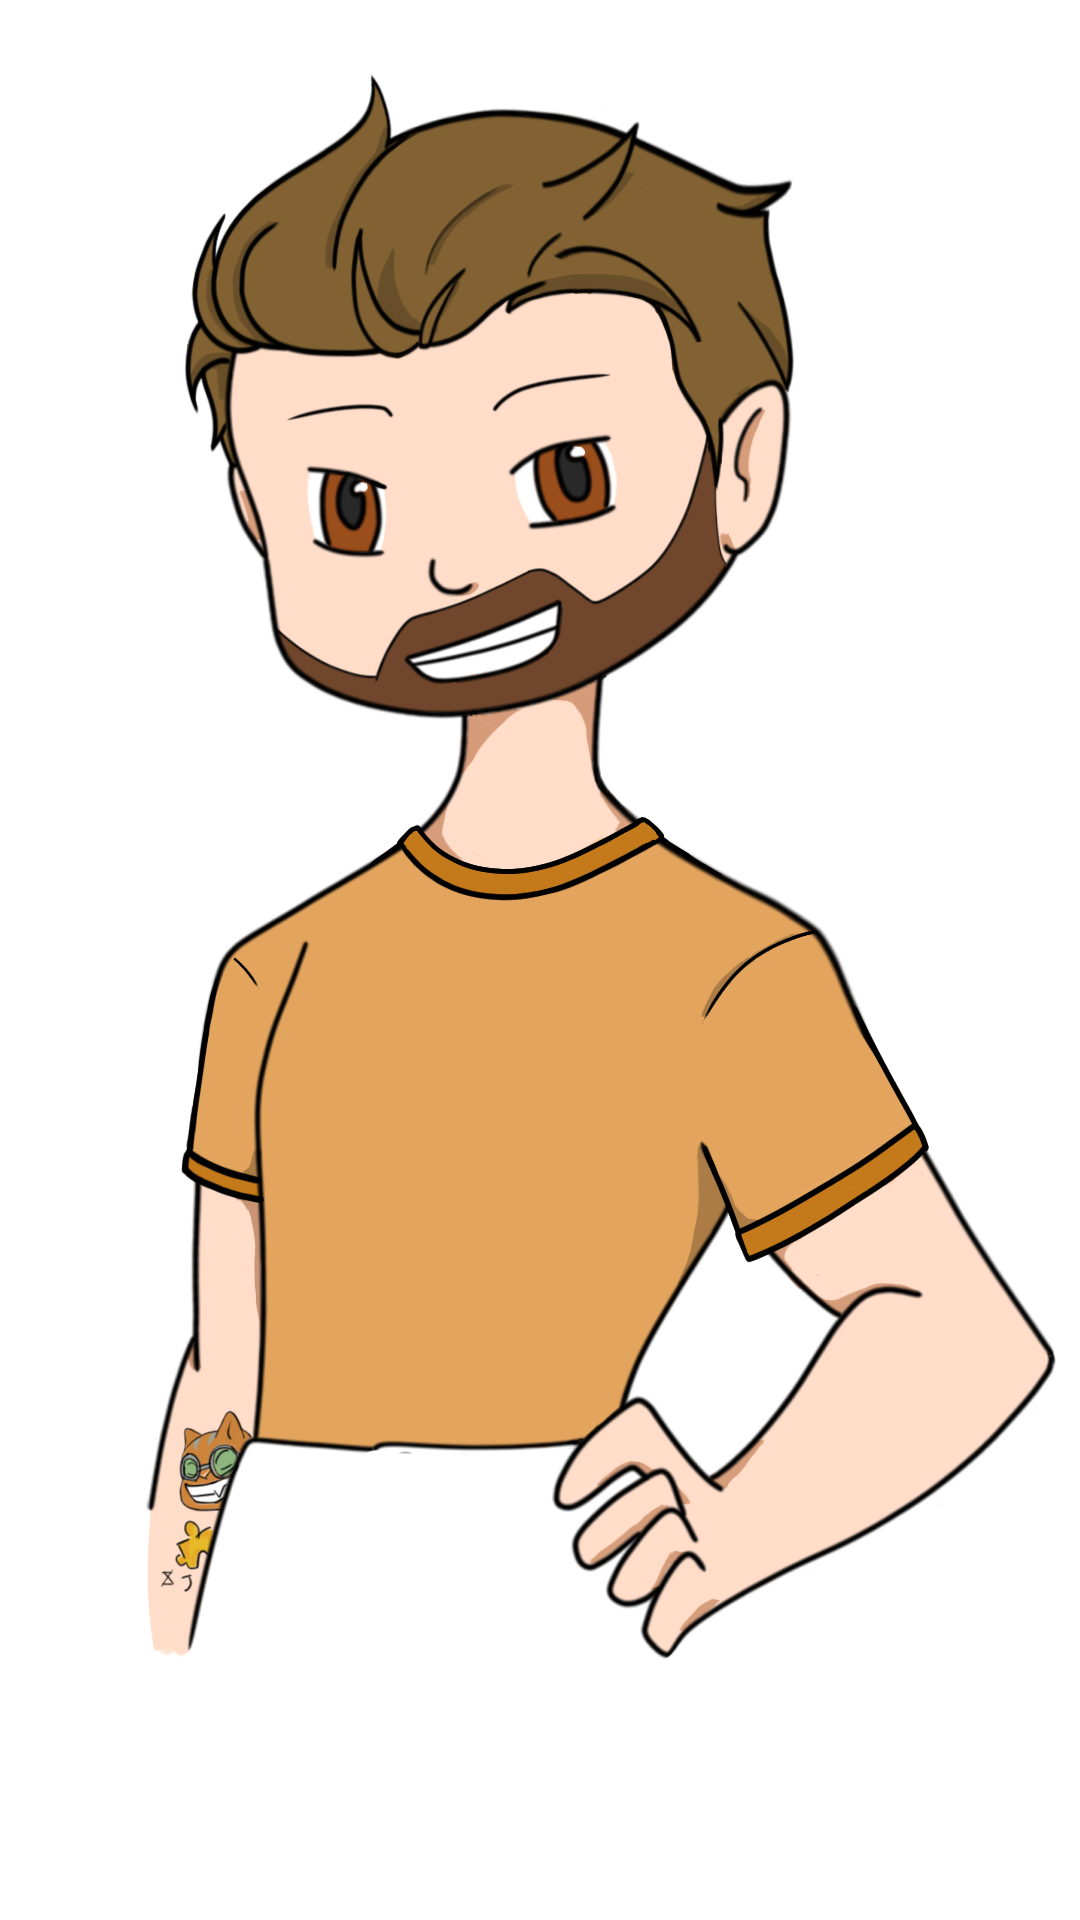
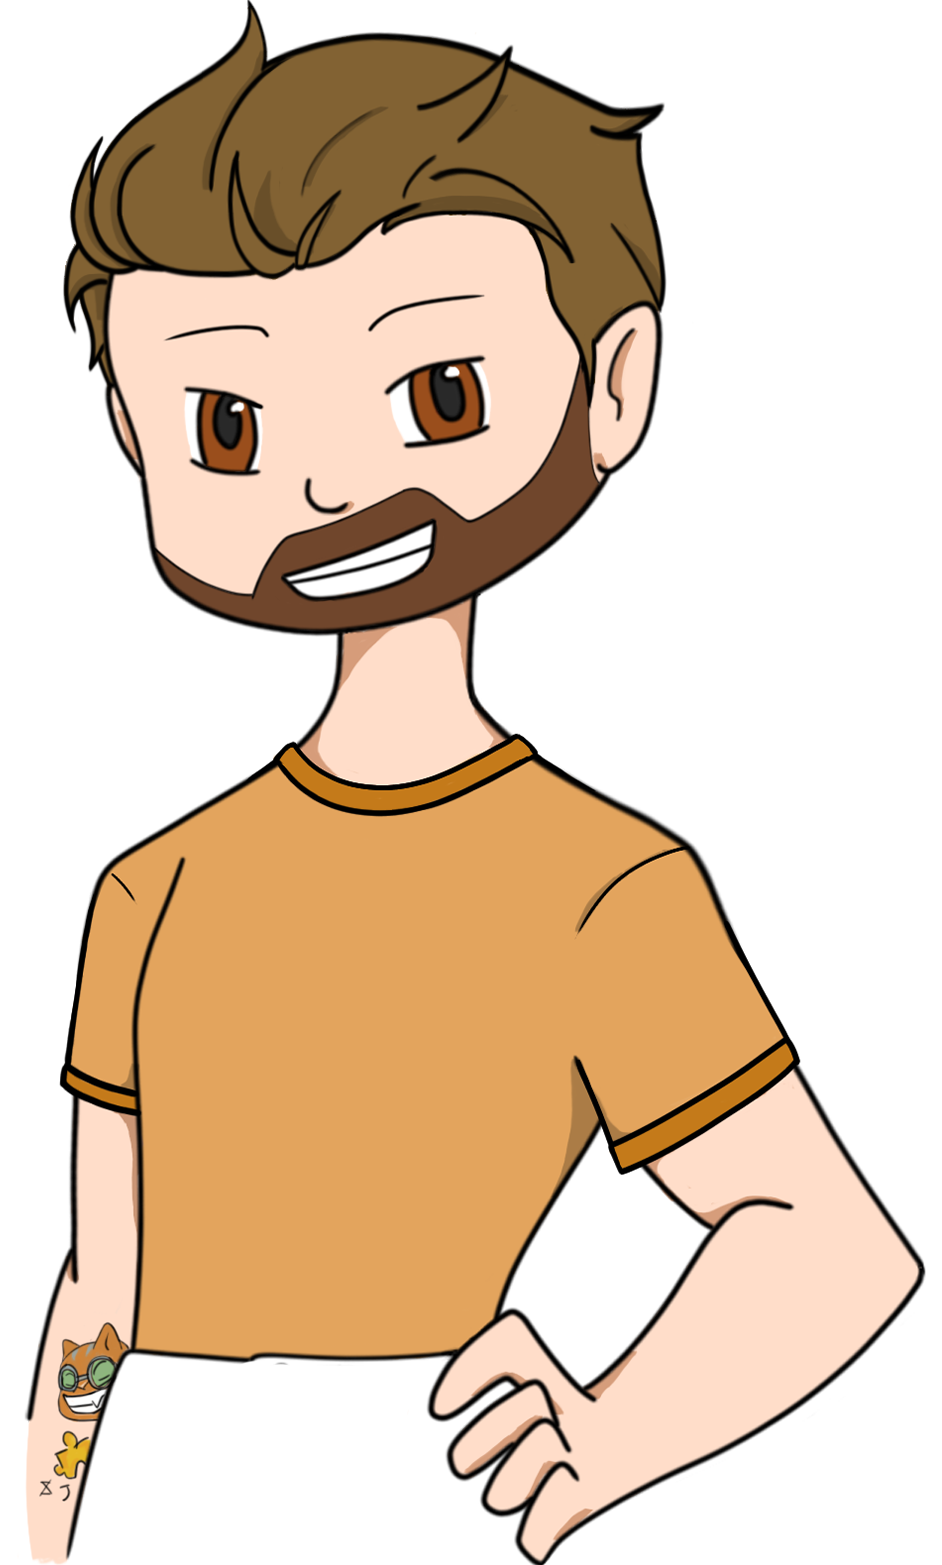
manon resize, pblm réglé

diff --git a/FLTV-WebSite/src/app/streamers/streamers.component.html b/FLTV-WebSite/src/app/streamers/streamers.component.html
@@ -16,8 +16,8 @@
                         <div *ngIf = "IndexOfelement == index">
                             <h2>{{streamer.name}}</h2>
                             <img id="imagestreamer" src="{{streamer.img}}" alt="image du streamer Lorenzo">
-                            <p>{{streamer.quote}}</p>
-                            <p>{{streamer.prez}}</p>
+                            <p class="quote">{{streamer.quote}}</p>
+                            <p class="prez">{{streamer.prez}}</p>
                         </div>
                     </div> 
                 <div class="fleche2"><img class="fleche fleched" src="../../assets/img/fleche.png" (click)="next()"></div>

diff --git a/FLTV-WebSite/src/app/streamers/streamers.component.css b/FLTV-WebSite/src/app/streamers/streamers.component.css
@@ -70,6 +70,10 @@ div.content {
 
 }
 
+h2 {
+    font-size : 18px
+}
+
 img.fleche.fleched {
     position: absolute;
     top: 50%;
@@ -80,4 +84,8 @@ img.fleche.flecheg {
     position: absolute;
     top: 50%;
     left: 30%;
+}
+
+p.prez {
+    margin-top: 4%;
 }
